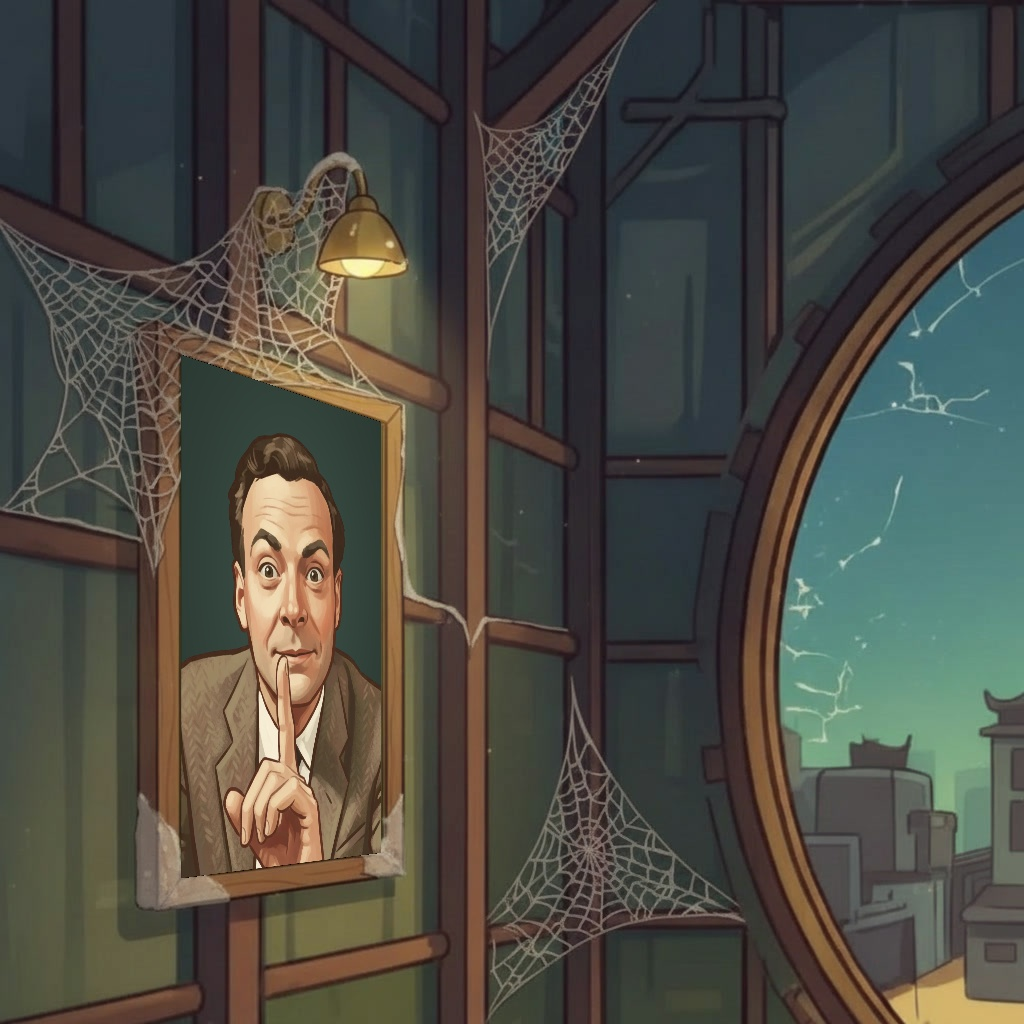
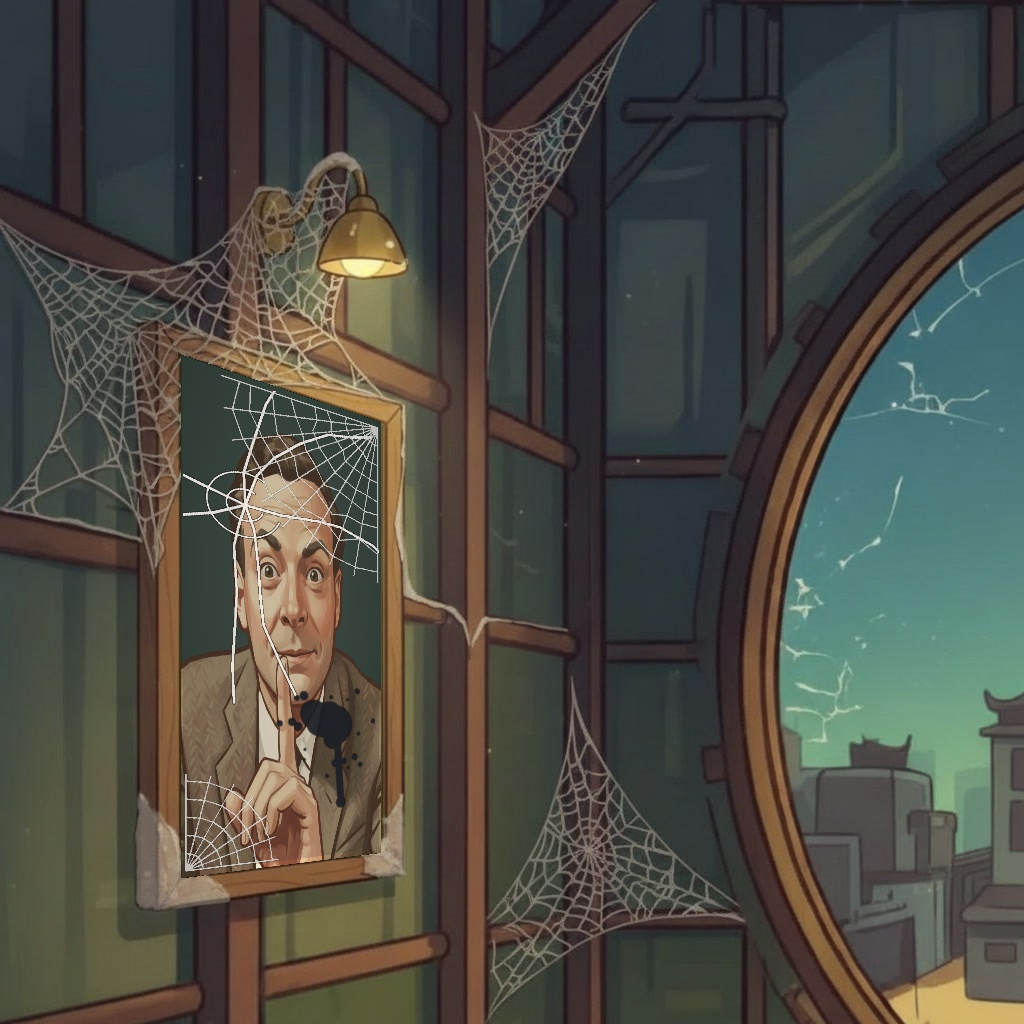
Ангар: сломанный портрет (клякса, трещина, паутина, криво), /test-hangar на настоящей сцене с сохранённой расстановкой

Changed region(s): [[0.1562, 0.375, 0.375, 0.8438]]

diff --git a/app/test-hangar/page.tsx b/app/test-hangar/page.tsx
@@ -1,122 +1,75 @@
 'use client'
 
-// Пробная страница «Ангар»: предметы 1–13 переключаются «сломано / на месте»,
-// у несобранных — номер задания ЕГЭ. Время суток — слой поверх сцены (предметы не перерисовываем).
-// Картинки и координаты собирает docs/hangar/tools/build.py → public/hangar/.
-import { useState } from 'react'
-import layout from '@/lib/hangarLayout.json'
+// Пробная страница «Ангар» — та же сцена, что в «Моём пути» (components/hangar-scene.tsx), с сохранённой расстановкой
+// из редактора /test-hangar-layout. Каждое задание переключается «сломано → можно чинить → починено», ключики
+// с номером, подсветка предмета и окошко «Перейти к разделу задачника» — как в приложении. Починка тут без сервера.
+import { useEffect, useState } from 'react'
+import { HangarScene, type HangarTime, type SceneItem } from '@/components/hangar-scene'
+import { getHangarLayout } from '@/actions/hangar-layout'
+import type { LayoutOverrides } from '@/lib/hangarModel'
 
-type Slot = { src: string; x: number; y: number; w: number; h: number }
-const L = layout as unknown as Record<string, { b: Slot; a: Slot }> & { rocket: Slot[]; junk: Slot[] }
-const IDS = Object.keys(L).filter((k) => k !== 'rocket' && k !== 'junk').map(Number).sort((a, b) => a - b)
-// Ракета: стадия = сколько заданий второй части (14–20) решено. Каждое задание добавляет одну деталь.
-const ROCKET_PARTS = ['Опоры', 'Сопло', 'Обшивка', 'Стабилизаторы', 'Боковые баки', 'Звезда', 'Нос']
-const NAMES: Record<number, string> = {
-    1: 'Кабель', 2: 'Ключи', 3: 'Стремянка', 4: 'Шуруповёрт', 5: 'Бочка', 6: 'Флаг', 7: 'Пульт',
-    8: 'Лампа', 9: 'Огнетушитель', 10: 'Аппарат', 11: 'Вентилятор', 12: 'Ящик', 13: 'Робот',
+const TITLES: Record<number, string> = {
+    1: 'Планиметрия', 2: 'Векторы', 3: 'Стереометрия', 4: 'Вероятность', 5: 'Сложная вероятность',
+    6: 'Мат. ожидание', 7: 'Уравнения', 8: 'Выражения', 9: 'Производная', 10: 'Прикладные задачи',
+    11: 'Текстовые задачи', 12: 'Графики', 13: 'Финансовая задача', 14: 'Уравнения', 15: 'Стереометрия',
+    16: 'Неравенства', 17: 'Моделирование', 18: 'Планиметрия', 19: 'Параметр', 20: 'Числа и их свойства',
 }
-const WALL = new Set([2, 6, 8]) // висят на стене — без тени на полу
-const pct = (v: number) => `${(v / 1024) * 100}%`
+type St = SceneItem['state']
+const NEXT: Record<St, St> = { broken: 'ready', ready: 'fixed', fixed: 'broken' }
+const ST_STYLE: Record<St, { bg: string; fg: string; label: string }> = {
+    broken: { bg: '#26333B', fg: '#C9D4DA', label: 'сломано' },
+    ready: { bg: '#F2C35B', fg: '#3A2A08', label: 'чинить' },
+    fixed: { bg: '#78C93C', fg: '#0F171B', label: 'готово' },
+}
+const NUMS = Array.from({ length: 20 }, (_, i) => i + 1)
 
-type Time = 'day' | 'evening' | 'night'
-const TIME_TINT: Record<Time, string> = {
-    day: 'transparent',
-    evening: 'linear-gradient(180deg, rgba(255,120,60,0.28), rgba(120,40,80,0.25))',
-    night: 'linear-gradient(180deg, rgba(10,20,60,0.62), rgba(10,15,40,0.55))',
-}
-
-function Item({ id, done }: { id: number; done: boolean }) {
-    const p = done ? L[id].a : L[id].b
-    const onWall = WALL.has(id) && !(id === 6 && !done)
-    return (
-        <>
-            {!onWall && (
-                <div className="pointer-events-none absolute rounded-[50%]"
-                    style={{ left: pct(p.x - p.w * 0.45), top: pct(p.y - p.h * 0.07 - 4), width: pct(p.w * 0.9), height: pct(p.h * 0.12 + 8), background: 'radial-gradient(closest-side, rgba(20,10,15,0.5), transparent)' }} />
-            )}
-            {/* eslint-disable-next-line @next/next/no-img-element */}
-            <img key={p.src} src={p.src} alt={NAMES[id]} draggable={false}
-                className="absolute select-none transition-transform duration-500"
-                style={{ left: pct(p.x - p.w / 2), top: pct(p.y - p.h), width: pct(p.w), animation: done ? 'hangar-pop .6s ease-out' : undefined }} />
-            {!done && (
-                <span className="absolute flex h-[6%] w-[6%] -translate-x-1/2 -translate-y-1/2 items-center justify-center rounded-full border-2 border-white text-[clamp(9px,2.4vw,15px)] font-black text-[#0F171B]"
-                    style={{ left: pct(p.x), top: pct(p.y - p.h - 14), background: '#53ADEF', boxShadow: '0 2px 6px rgba(0,0,0,.5)' }}>
-                    {id}
-                </span>
-            )}
-        </>
-    )
-}
+const Btn = ({ on, onClick, children }: { on?: boolean; onClick: () => void; children: React.ReactNode }) => (
+    <button onClick={onClick} className="rounded-lg px-3 py-1.5 text-sm font-bold" style={{ background: on ? '#53ADEF' : '#26333B', color: on ? '#0F171B' : '#C9D4DA' }}>{children}</button>
+)
 
 export default function Page() {
-    const [done, setDone] = useState<Set<number>>(new Set())
-    const [time, setTime] = useState<Time>('day')
-    const toggle = (id: number) => setDone((s) => { const n = new Set(s); if (n.has(id)) n.delete(id); else n.add(id); return n })
-    const lampOn = done.has(8)
-    const [stage, setStage] = useState(0)
-    const R = L.rocket[stage]
-    // Грязь: 20 заданий всего, решено = починенные предметы + стадия ракеты. 5 ступеней — грязный фон проявляется на 100/75/50/25/0%.
-    const solved = done.size + stage
-    const dirt = [1, 0.75, 0.5, 0.25, 0][Math.min(4, Math.floor(solved / 4))]
-    // Хлам исчезает по одному: на каждое решённое задание — минус кусок (13 кусков на 20 заданий).
-    const junkLeft = Math.max(0, L.junk.length - Math.round((solved * L.junk.length) / 16))
+    const [layout, setLayout] = useState<LayoutOverrides | null | undefined>(undefined)
+    const [st, setSt] = useState<Record<number, St>>(() => Object.fromEntries(NUMS.map((n) => [n, 'broken'])))
+    const [time, setTime] = useState<HangarTime>('day')
+    const [portrait, setPortrait] = useState(false)
+    useEffect(() => { getHangarLayout().then(setLayout).catch(() => setLayout(null)) }, [])
+
+    const items: SceneItem[] = NUMS.map((n) => ({ num: n, title: TITLES[n], state: st[n], progress: st[n] === 'broken' ? 0 : 1, href: null }))
+    const all = (s: St) => setSt(Object.fromEntries(NUMS.map((n) => [n, s])))
+    // ракета чинится по порядку — как в приложении «следующая деталь» одна
+    const setNum = (n: number, s: St) => setSt((o) => ({ ...o, [n]: s }))
+
     return (
         <div className="min-h-screen bg-[#0F171B] px-4 py-5 text-white">
-            <style>{`@keyframes hangar-pop{0%{transform:scale(.6);opacity:0}60%{transform:scale(1.08);opacity:1}100%{transform:scale(1)}}`}</style>
             <div className="mx-auto max-w-xl">
-                <h1 className="mb-3 text-xl font-extrabold">Ангар — проба</h1>
-                <div className="relative aspect-square w-full overflow-hidden rounded-2xl border-2 border-[#2C3A41]">
-                    {/* eslint-disable-next-line @next/next/no-img-element */}
-                    <img src="/hangar/bg.webp" alt="" className="absolute inset-0 h-full w-full" draggable={false} />
-                    {/* eslint-disable-next-line @next/next/no-img-element */}
-                    <img src="/hangar/bg-dirty.webp" alt="" className="absolute inset-0 h-full w-full transition-opacity duration-700" style={{ opacity: dirt }} draggable={false} />
-                    {L.junk.map((p, j) => (
-                        // eslint-disable-next-line @next/next/no-img-element
-                        <img key={p.src} src={p.src} alt="" draggable={false} className="absolute select-none transition-all duration-500"
-                            style={{ left: pct(p.x - p.w / 2), top: pct(p.y - p.h), width: pct(p.w), opacity: j < junkLeft ? 1 : 0, transform: j < junkLeft ? 'scale(1)' : 'scale(0.3)' }} />
-                    ))}
-                    {/* eslint-disable-next-line @next/next/no-img-element */}
-                    <img key={R.src} src={R.src} alt="Ракета" draggable={false} className="absolute select-none"
-                        style={{ left: pct(R.x - R.w / 2), top: pct(R.y - R.h), width: pct(R.w), animation: stage ? 'hangar-pop .6s ease-out' : undefined }} />
-                    {stage < 7 && (
-                        <span className="absolute flex h-[6%] w-[6%] -translate-x-1/2 -translate-y-1/2 items-center justify-center rounded-full border-2 border-white text-[clamp(9px,2.4vw,15px)] font-black text-[#0F171B]"
-                            style={{ left: pct(R.x + R.w * 0.42), top: pct(R.y - R.h * 0.55), background: '#C385F7', boxShadow: '0 2px 6px rgba(0,0,0,.5)' }}>
-                            {14 + stage}
-                        </span>
-                    )}
-                    {IDS.map((id) => <Item key={id} id={id} done={done.has(id)} />)}
-                    <div className="pointer-events-none absolute inset-0 transition-[background] duration-700" style={{ background: TIME_TINT[time], mixBlendMode: 'multiply' }} />
-                    {/* свет лампы — отдельный слой, плавно разгорается */}
-                    <div className="pointer-events-none absolute rounded-full transition-opacity duration-500"
-                        style={{ left: pct(232 - 170), top: pct(415 - 170), width: pct(340), height: pct(340), opacity: lampOn ? (time === 'day' ? 0.55 : 0.9) : 0, background: 'radial-gradient(closest-side, rgba(255,200,110,0.55), transparent)', mixBlendMode: 'screen' }} />
+                <h1 className="text-xl font-extrabold">Ангар — как в приложении</h1>
+                <p className="mb-3 text-xs font-bold text-[#7E8F99]">Расстановка — сохранённая в редакторе. Жми номер задания внизу: сломано → можно чинить → починено. На картинке жми ключик — подсветится предмет и откроется окошко.</p>
+                <div className="mb-2 flex flex-wrap gap-2">
+                    <Btn onClick={() => all('broken')}>Всё сломано</Btn>
+                    <Btn onClick={() => all('ready')}>Всё можно чинить</Btn>
+                    <Btn onClick={() => all('fixed')}>Всё починено</Btn>
                 </div>
-
-                <div className="mt-3 flex gap-2">
-                    {(['day', 'evening', 'night'] as Time[]).map((t) => (
-                        <button key={t} onClick={() => setTime(t)} className="rounded-lg px-3 py-1.5 text-sm font-bold"
-                            style={{ background: time === t ? '#53ADEF' : '#26333B', color: time === t ? '#0F171B' : '#C9D4DA' }}>
-                            {t === 'day' ? 'День' : t === 'evening' ? 'Вечер' : 'Ночь'}
-                        </button>
-                    ))}
-                    <button onClick={() => { const all = done.size === IDS.length; setDone(all ? new Set() : new Set(IDS)); setStage(all ? 0 : 7) }} className="ml-auto rounded-lg bg-[#26333B] px-3 py-1.5 text-sm font-bold">
-                        {done.size === IDS.length ? 'Сломать всё' : 'Починить всё'}
-                    </button>
+                <div className="mb-3 flex flex-wrap gap-2">
+                    <Btn on={time === 'day'} onClick={() => setTime('day')}>День</Btn>
+                    <Btn on={time === 'evening'} onClick={() => setTime('evening')}>Вечер</Btn>
+                    <Btn on={time === 'night'} onClick={() => setTime('night')}>Ночь</Btn>
+                    <Btn on={portrait} onClick={() => setPortrait((v) => !v)}>Портрет: {portrait ? 'починен' : 'сломан'}</Btn>
                 </div>
-                <div className="mt-3 rounded-xl bg-[#1C262B] px-3 py-2.5">
-                    <div className="flex items-center justify-between text-sm font-bold">
-                        <span>Ракета: решено {stage} из 7 заданий второй части · всего {solved}/20, грязь {Math.round(dirt * 100)}%</span>
-                        <span className="text-[#C385F7]">{stage < 7 ? `дальше: №${14 + stage} ${ROCKET_PARTS[stage]}` : 'готова к старту 🚀'}</span>
-                    </div>
-                    <input type="range" min={0} max={7} value={stage} onChange={(e) => setStage(+e.target.value)} className="mt-2 w-full" />
+                {layout === undefined
+                    ? <div className="aspect-square w-full animate-pulse rounded-2xl bg-[#1C262B]" />
+                    : <HangarScene items={items} layout={layout} time={time} decorFixed={portrait} onFix={(n) => setNum(n, 'fixed')} />}
+                <div className="mt-4 grid grid-cols-5 gap-1.5">
+                    {NUMS.map((n) => {
+                        const s = ST_STYLE[st[n]]
+                        return (
+                            <button key={n} onClick={() => setNum(n, NEXT[st[n]])} className="rounded-lg px-1 py-1.5 text-center" style={{ background: s.bg, color: s.fg }}>
+                                <div className="text-sm font-black">№{n}</div>
+                                <div className="text-[10px] font-bold opacity-80">{s.label}</div>
+                            </button>
+                        )
+                    })}
                 </div>
-                <div className="mt-3 grid grid-cols-2 gap-1.5 sm:grid-cols-3">
-                    {IDS.map((id) => (
-                        <button key={id} onClick={() => toggle(id)} className="flex items-center gap-2 rounded-lg px-2.5 py-2 text-left text-sm font-bold"
-                            style={{ background: done.has(id) ? '#1F3A2A' : '#1C262B', color: done.has(id) ? '#A1D151' : '#C9D4DA' }}>
-                            <span className="w-5 text-center font-black">{id}</span>{NAMES[id]}{done.has(id) ? ' ✓' : ''}
-                        </button>
-                    ))}
-                </div>
+                <p className="mt-2 text-[11px] font-bold text-[#7E8F99]">№1–13 — предметы (№11 — вентилятор), №14–20 — детали ракеты по порядку.</p>
             </div>
         </div>
     )

diff --git a/components/hangar-scene.tsx b/components/hangar-scene.tsx
@@ -59,7 +59,15 @@ function KeyBadge({ x, y, n, ready, active, onHover, onOpen }: { x: number; y: n
 /** Подсветка предмета, который починится: золотой контур по форме картинки (drop-shadow) и чуть ярче. */
 const HIGHLIGHT = 'drop-shadow(0 0 2px #FFF4C2) drop-shadow(0 0 6px #F2C35B) drop-shadow(0 0 14px #F2C35B) brightness(1.15)'
 
-export function HangarScene({ items, layout }: { items: SceneItem[]; layout?: LayoutOverrides | null }) {
+export type HangarTime = Time
+
+/**
+ * onFix / time / decorFixed — для тестовой страницы /test-hangar: починка без сервера, своё время суток,
+ * состояние портрета вручную. В приложении не передаются.
+ */
+export function HangarScene({ items, layout, onFix, time: forcedTime, decorFixed }: {
+    items: SceneItem[]; layout?: LayoutOverrides | null; onFix?: (num: number) => void; time?: Time; decorFixed?: boolean
+}) {
     const router = useRouter()
     const [pending, start] = useTransition()
     const [justFixed, setJustFixed] = useState<number | null>(null)
@@ -67,7 +75,7 @@ export function HangarScene({ items, layout }: { items: SceneItem[]; layout?: La
     const [hover, setHover] = useState<number | null>(null)
     const [openNum, setOpenNum] = useState<number | null>(null)
     const lit = (n: number) => hover === n || openNum === n
-    useEffect(() => { setTime(timeOf(new Date().getHours())) }, [])
+    useEffect(() => { setTime(forcedTime ?? timeOf(new Date().getHours())) }, [forcedTime])
 
     const byNum = new Map(items.map((i) => [i.num, i]))
     const room = items.filter((i) => i.num <= 13)
@@ -80,17 +88,21 @@ export function HangarScene({ items, layout }: { items: SceneItem[]; layout?: La
     const RS = L.rocket[Math.min(7, stage)]
     const R = { ...RS, ...place(layout, stage >= 7 ? 'a' : 'b', 'rocket', RS) }
     const fan = byNum.get(FAN_NUM)
-    const decorDone = PORTRAIT_NUM !== null && byNum.get(PORTRAIT_NUM)?.state === 'fixed'
+    const decorDone = decorFixed ?? (PORTRAIT_NUM !== null && byNum.get(PORTRAIT_NUM)?.state === 'fixed')
     const decorState = decorDone ? 'a' : 'b'
     const lampP = place(layout, decorState, 'lamp', DECOR[1][decorState])
     const readyRocket = rocketParts.find((i) => i.state === 'ready')
     const nextRocket = readyRocket ?? rocketParts.find((i) => i.state !== 'fixed')
     const ready = [...room.filter((i) => i.state === 'ready'), ...(readyRocket ? [readyRocket] : [])]
 
-    const fix = (num: number) => start(async () => {
-        const r = await fixHangarItem(num)
-        if (r.ok) { setJustFixed(num); playSound(CASE_PRIZE_SOUND); router.refresh(); setTimeout(() => setJustFixed(null), 1500) }
-    })
+    const fixed = (num: number) => { setJustFixed(num); playSound(CASE_PRIZE_SOUND); setTimeout(() => setJustFixed(null), 1500) }
+    const fix = (num: number) => {
+        if (onFix) { onFix(num); fixed(num); return }
+        start(async () => {
+            const r = await fixHangarItem(num)
+            if (r.ok) { fixed(num); router.refresh() }
+        })
+    }
     const openItem = openNum !== null ? byNum.get(openNum) ?? null : null
     const label = (i: SceneItem) => (i.num >= 14 ? ROCKET_STEP[Math.min(6, stage)] : FIX_LABEL[i.num] ?? 'Починить')
 

diff --git a/lib/hangarModel.ts b/lib/hangarModel.ts
@@ -10,7 +10,7 @@
 import type { CSSProperties } from 'react'
 import layout from '@/lib/hangarLayout.json'
 
-export type Slot = { src: string; x: number; y: number; w: number; h: number }
+export type Slot = { src: string; x: number; y: number; w: number; h: number; rot?: number }
 export type Place = { x: number; y: number; w: number; h: number; z: number; rot: number }
 export type HangarState = 'b' | 'a'
 export type LayoutOverrides = Partial<Record<HangarState, Record<string, Partial<Place>>>>
@@ -38,7 +38,7 @@ export type Decor = { key: string; label: string; b: Slot; a: Slot }
 export const DECOR: Decor[] = [
     { key: 'portrait', label: 'Портрет',
         a: { src: '/hangar/portrait-after.webp', x: 110, y: 560, w: 80, h: 180 },
-        b: { src: '/hangar/portrait-before.webp', x: 99, y: 560, w: 144, h: 233 } },
+        b: { src: '/hangar/portrait-before.webp', x: 99, y: 560, w: 144, h: 233, rot: -9 } }, // «до» висит криво
     { key: 'lamp', label: 'Лампа над портретом',
         a: { src: '/hangar/lamp-on.webp', x: 129, y: 370, w: 46, h: 40 },
         b: { src: '/hangar/lamp-off.webp', x: 129, y: 370, w: 46, h: 40 } },
@@ -55,7 +55,7 @@ const defaultZ = (key: string) => {
 
 export function place(o: LayoutOverrides | null | undefined, state: HangarState, key: string, base: Slot): Place {
     const p = o?.[state]?.[key] ?? {}
-    return { x: p.x ?? base.x, y: p.y ?? base.y, w: p.w ?? base.w, h: p.h ?? base.h, z: p.z ?? defaultZ(key), rot: p.rot ?? 0 }
+    return { x: p.x ?? base.x, y: p.y ?? base.y, w: p.w ?? base.w, h: p.h ?? base.h, z: p.z ?? defaultZ(key), rot: p.rot ?? base.rot ?? 0 }
 }
 
 export type EditorObj = Slot & Place & { key: string; label: string }

diff --git a/docs/hangar/tools/build_portrait.py b/docs/hangar/tools/build_portrait.py
@@ -100,6 +100,85 @@ print('canvas after', qa.round().tolist(), 'before', qb.round().tolist())
 A = insert_portrait(after, qa, art)
 B = insert_portrait(before, qb, art)
 
+
+def ruin_canvas(img, quad):
+    """«До»: на портрете клякса, треснувшее стекло и паутина поверх холста (в координатах холста, потом в перспективу)."""
+    cw, ch = 400, 900
+    rng = np.random.default_rng(7)
+    over = np.zeros((ch, cw, 4), np.float32)  # BGRA слой поверх портрета
+    # клякса: тёмные чернила — несколько пятен и брызги, справа ниже лица
+    blot = np.zeros((ch, cw), np.uint8)
+    cx, cy = 290, 640  # на пиджаке, лицо остаётся видно
+    for _ in range(9):
+        r = int(rng.integers(16, 40))
+        cv2.circle(blot, (int(cx + rng.normal(0, 22)), int(cy + rng.normal(0, 18))), r, 255, -1)
+    for _ in range(18):
+        a = rng.uniform(0, 2 * np.pi)
+        d = rng.uniform(60, 120)
+        cv2.circle(blot, (int(cx + np.cos(a) * d), int(cy + np.sin(a) * d * 0.9)), int(rng.integers(3, 10)), 255, -1)
+    # подтёк вниз
+    cv2.line(blot, (cx + 10, cy + 30), (cx + 18, cy + 150), 255, 14)
+    cv2.circle(blot, (cx + 18, cy + 155), 11, 255, -1)
+    blot = cv2.GaussianBlur(blot, (5, 5), 0)
+    ink = np.array([38, 30, 26], np.float32)
+    over[..., :3] += ink * (blot[..., None] / 255.0)
+    over[..., 3] = np.maximum(over[..., 3], blot * 0.92)
+    # трещина стекла: ломаные лучи из точки удара слева вверху
+    crack = np.zeros((ch, cw), np.uint8)
+    hx, hy = 110, 230
+    for k in range(7):
+        a = k / 7 * 2 * np.pi + rng.uniform(-0.3, 0.3)
+        x, y = hx, hy
+        pts = [(x, y)]
+        for _ in range(6):
+            a += rng.uniform(-0.35, 0.35)
+            step = rng.uniform(40, 85)
+            x, y = x + np.cos(a) * step, y + np.sin(a) * step
+            pts.append((int(x), int(y)))
+        cv2.polylines(crack, [np.array(pts, np.int32)], False, 255, 3)
+    for rr in (35, 70):
+        cv2.ellipse(crack, (hx, hy), (rr, int(rr * 0.85)), 0, 20, 300, 255, 2)
+    crack_sh = cv2.dilate(crack, np.ones((3, 3), np.uint8))
+    m = crack_sh > 0
+    over[m, :3] = (30, 30, 34)
+    over[m, 3] = 170
+    m = crack > 0
+    over[m, :3] = (235, 240, 245)
+    over[m, 3] = 230
+    # паутина поверх холста в правом верхнем углу
+    web = np.zeros((ch, cw), np.uint8)
+    ox, oy = cw - 4, 4
+    rays = [np.pi * (0.5 + i / 9 * 0.5) for i in range(10)]
+    for a in rays:
+        cv2.line(web, (ox, oy), (int(ox + np.cos(a) * 330), int(oy + np.sin(a) * 330)), 255, 2)
+    for rr in range(40, 330, 38):
+        pts = [(int(ox + np.cos(a) * rr * rng.uniform(0.92, 1.05)), int(oy + np.sin(a) * rr * rng.uniform(0.92, 1.05))) for a in rays]
+        cv2.polylines(web, [np.array(pts, np.int32)], False, 255, 2)
+    # и клочок в левом нижнем
+    ox, oy = 4, ch - 4
+    rays2 = [-np.pi * (i / 6 * 0.5) for i in range(7)]
+    for a in rays2:
+        cv2.line(web, (ox, oy), (int(ox + np.cos(a) * 170), int(oy + np.sin(a) * 170)), 255, 2)
+    for rr in range(30, 170, 32):
+        pts = [(int(ox + np.cos(a) * rr), int(oy + np.sin(a) * rr)) for a in rays2]
+        cv2.polylines(web, [np.array(pts, np.int32)], False, 255, 2)
+    m = web > 0
+    over[m, :3] = (212, 216, 218)
+    over[m, 3] = np.maximum(over[m, 3], 215)
+    # пыль: всё чуть серее
+    M = cv2.getPerspectiveTransform(np.float32([[0, 0], [cw, 0], [cw, ch], [0, ch]]), quad.astype(np.float32))
+    warped = cv2.warpPerspective(over, M, (W, H), flags=cv2.INTER_LINEAR)
+    cmask = cv2.warpPerspective(np.full((ch, cw), 255, np.uint8), M, (W, H))
+    out = img.astype(np.float32)
+    dust = cmask > 0
+    out[dust] = out[dust] * 0.78 + np.array([60, 62, 64], np.float32) * 0.22
+    a = warped[..., 3:4] / 255.0
+    out = out * (1 - a) + warped[..., :3] * a
+    return np.clip(out, 0, 255).astype(np.uint8)
+
+
+B = ruin_canvas(B, qb)
+
 # рамка «после»
 poly = outer_frame_poly(qa)
 fm = np.zeros((H, W), np.uint8)

diff --git a/CLAUDE.md b/CLAUDE.md
@@ -14993,3 +14993,7 @@ Background (Full, тень None). Неузнаваемое «до» — дела
   ярко-зелёный холст по 4 углам с перспективой (лицо одинаковое в «до» и «после»), паутина = разница «до» и «после», лампа
   вырезается по цвету латуни; выключенную лампу и наклон рамки делаем сами (Leonardo ломать не умеет). Чинится заданием
   `PORTRAIT_NUM` (пока null — висит «до»); у починенной лампы тёплый конус света.
+- Сломанный портрет: `ruin_canvas` в build_portrait.py рисует поверх холста кляксу (на пиджаке), трещину стекла и паутину,
+  холст пылится; «до» по умолчанию повёрнут на −9° (`rot` в слоте DECOR, меняется в редакторе).
+- `/test-hangar` теперь показывает настоящую `HangarScene` с сохранённой расстановкой: кнопки №1–20 (сломано → чинить →
+  починено), «всё сразу», время суток, портрет. Для этого у сцены есть пропы `onFix` (без сервера), `time`, `decorFixed`.
